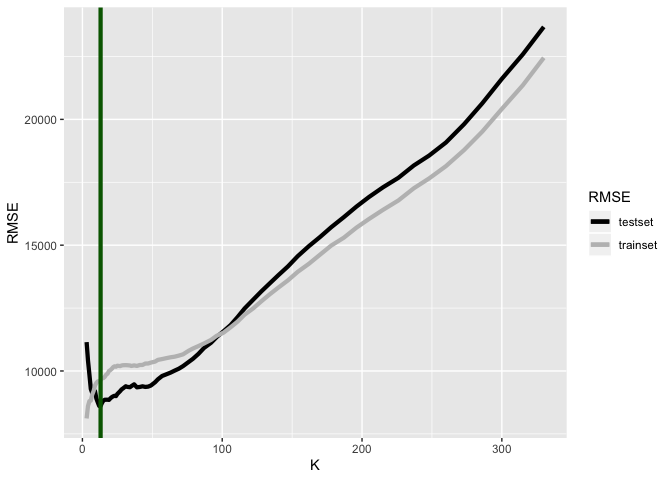
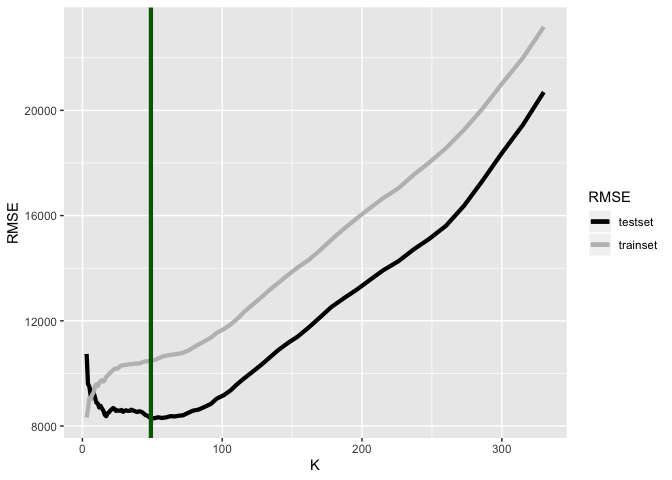
111111

diff --git a/exercise1-2.md b/exercise1-2.md
@@ -1,8 +1,6 @@
 trim level 350
 ==============
 
-    library(mosaic)
-
     ## Loading required package: dplyr
 
     ## 
@@ -74,9 +72,6 @@ trim level 350
     ## 
     ##     max, mean, min, prod, range, sample, sum
 
-    library(readr)
-    sclass <- read_csv("sclass.csv")
-
     ## Parsed with column specification:
     ## cols(
     ##   id = col_double(),
@@ -98,11 +93,6 @@ trim level 350
     ##   price = col_double()
     ## )
 
-    sclass350 = subset(sclass, trim== '350')
-    sclass65AMG = subset(sclass, trim== '65 AMG')
-
-    library(tidyverse)
-
     ## ── Attaching packages ─────────────────────────────────────────────────────────── tidyverse 1.2.1 ──
 
     ## ✔ tibble  2.1.3     ✔ purrr   0.3.2
@@ -120,9 +110,6 @@ trim level 350
     ## ✖ mosaic::stat()             masks ggplot2::stat()
     ## ✖ mosaic::tally()            masks dplyr::tally()
 
-    library(FNN)
-    library(foreach)
-
     ## 
     ## Attaching package: 'foreach'
 
@@ -130,176 +117,53 @@ trim level 350
     ## 
     ##     accumulate, when
 
-    ggplot(data = sclass350) + 
-      geom_point(mapping = aes(x = mileage, y = price), color='darkgrey')
-
 ![](exercise1-2_files/figure-markdown_strict/unnamed-chunk-1-1.png)
 
 trim level 350: out of sample RMSE versus K
 ===========================================
 
-    N1 = nrow(sclass350)
-    N_train1 = floor(0.8*N1)
-    N_test1 = N1 - N_train1
-
-    train_ind1 = sample.int(N1, N_train1, replace=FALSE)
-
-    D_train1 = sclass350[train_ind1,]
-    D_test1 = sclass350[-train_ind1,]
-
-    D_test1 = arrange(D_test1, mileage)
-
-    X_train1 = select(D_train1, mileage)
-    y_train1 = select(D_train1, price)
-    X_test1 = select(D_test1, mileage)
-    y_test1 = select(D_test1, price)
-
-    rmse = function(y, ypred) {
-      sqrt(mean(data.matrix((y-ypred)^2)))
-    }
-
-    k_grid1_1 = unique(round(exp(seq(log(330), log(3), length=100))))
-    rmse_grid_out1 = foreach(k = k_grid1_1, .combine='c') %do% {
-      knn_model1_1 = knn.reg(X_train1, X_test1, as.data.frame(y_train1), k = k)
-      rmse(y_test1, knn_model1_1$pred)
-    }
-
-    rmse_grid_out1 = data.frame(K = k_grid1_1, RMSE = rmse_grid_out1)
-
-    p_out = ggplot(data=rmse_grid_out1) + 
-      geom_path(aes(x=K, y=RMSE, color='testset'), size=1.5)
-    p_out
-
 ![](exercise1-2_files/figure-markdown_strict/unnamed-chunk-2-1.png)
 
-    ind_best = which.min(rmse_grid_out1$RMSE)
-    k_best = k_grid1_1[ind_best]
-    k_best
-
-    ## [1] 13
+    ## [1] 49
 
 trim level 350: RMSE versus K
 =============================
-
-    k_grid1_2 = unique(round(exp(seq(log(330), log(3), length=100))))
-    rmse_grid_in1 = foreach(k = k_grid1_2, .combine='c') %do% {
-      knn_model1_2 = knn.reg(X_train1, X_train1, as.data.frame(y_train1), k = k)
-      rmse(y_train1, knn_model1_2$pred)
-    }
-
-    rmse_grid_in1 = data.frame(K = k_grid1_2, RMSE = rmse_grid_in1)
-    ggplot(data=rmse_grid_in1) + 
-      geom_path(aes(x=K, y=RMSE, color='testset'), size=1.5) 
 
 ![](exercise1-2_files/figure-markdown_strict/unnamed-chunk-3-1.png)
 
 trim level 350: RMSE(2 types) versus K
 ======================================
 
-    p_out + geom_path(data=rmse_grid_in1, aes(x=K, y=RMSE, color='trainset'),size=1.5) + 
-      scale_colour_manual(name="RMSE",
-                          values=c(testset="black", trainset="grey")) + 
-      geom_vline(xintercept=k_best, color='darkgreen', size=1.5)
-
 ![](exercise1-2_files/figure-markdown_strict/unnamed-chunk-4-1.png)
-*o**p**t**i**m**a**l**K* = 8
- trim level 350: K-nearest neighbors at the optimal K
-========================================================
 
-    knn_model_optimal = knn.reg(X_train1, X_test1, as.data.frame(y_train1), k = 8)
-    d_test1 = data.frame(X_test1, ypred = knn_model_optimal$pred)
-    p_base1 = ggplot(data = sclass350) + 
-      geom_point(mapping = aes(x =mileage , y = price), color='darkgrey') 
-
-    p_base1 + geom_path(data=d_test1, mapping = aes(x = mileage, y = ypred), color='red', size=1.5)
+trim level 350: K-nearest neighbors at the optimal K
+====================================================
 
 ![](exercise1-2_files/figure-markdown_strict/unnamed-chunk-5-1.png)
 
 trim level 65AMG
 ================
 
-    ggplot(data = sclass65AMG) + 
-      geom_point(mapping = aes(x = mileage, y = price), color='darkgrey') 
-
 ![](exercise1-2_files/figure-markdown_strict/unnamed-chunk-6-1.png)
 
 trim level 65AMG: out of sample RMSE versus K
 =============================================
 
-    N2 = nrow(sclass65AMG)
-    N_train2 = floor(0.8*N2)
-    N_test2 = N2 - N_train2
-
-    train_ind2 = sample.int(N2, N_train2, replace=FALSE)
-
-    D_train2 = sclass65AMG[train_ind2,]
-    D_test2 = sclass65AMG[-train_ind2,]
-
-    D_test2 = arrange(D_test2, mileage)
-
-    X_train2 = select(D_train2, mileage)
-    y_train2 = select(D_train2, price)
-    X_test2 = select(D_test2, mileage)
-    y_test2 = select(D_test2, price)
-
-    rmse = function(y, ypred) {
-      sqrt(mean(data.matrix((y-ypred)^2)))
-    }
-
-    k_grid2_1 = unique(round(exp(seq(log(230), log(3), length=100))))
-    rmse_grid_out2 = foreach(k = k_grid2_1, .combine='c') %do% {
-      knn_model2_1 = knn.reg(X_train2, X_test2,as.data.frame( y_train2), k = k)
-      rmse(y_test2, knn_model2_1$pred)
-    }
-
-    rmse_grid_out2 = data.frame(K = k_grid2_1, RMSE = rmse_grid_out2)
-
-    p_out = ggplot(data=rmse_grid_out2) + 
-      geom_path(aes(x=K, y=RMSE, color='testset'), size=1.5)
-    p_out
-
 ![](exercise1-2_files/figure-markdown_strict/unnamed-chunk-7-1.png)
 
-    ind_best = which.min(rmse_grid_out2$RMSE)
-    k_best = k_grid2_1[ind_best]
-    k_best
-
-    ## [1] 3
+    ## [1] 5
 
 trim level 65AMG: RMSE versus K
 ===============================
-
-    k_grid2_2 = unique(round(exp(seq(log(230), log(3), length=100))))
-    rmse_grid_in2 = foreach(k = k_grid2_2, .combine='c') %do% {
-      knn_model2_2 = knn.reg(X_train2, X_train2, as.data.frame(y_train2), k = k)
-      rmse(y_train2, knn_model2_2$pred)
-    }
-
-    rmse_grid_in2 = data.frame(K = k_grid2_2, RMSE = rmse_grid_in2)
-    ggplot(data=rmse_grid_in2) + 
-      geom_path(aes(x=K, y=RMSE, color='testset'), size=1.5) 
 
 ![](exercise1-2_files/figure-markdown_strict/unnamed-chunk-8-1.png)
 
 trim level 65AMG: RMSE(2 types) versus K
 ========================================
 
-    p_out + geom_path(data=rmse_grid_in2, aes(x=K, y=RMSE, color='trainset'),size=1.5) + 
-      scale_colour_manual(name="RMSE",
-                          values=c(testset="black", trainset="grey")) + 
-      geom_vline(xintercept=k_best, color='darkgreen', size=1.5)
-
 ![](exercise1-2_files/figure-markdown_strict/unnamed-chunk-9-1.png)
-*o**p**t**i**m**a**l**K* = 33
 
 trim level 65AMG: K-nearest neighbors at the optimal K
 ======================================================
-
-    knn_model_optimal2 = knn.reg(X_train2, X_test2, as.data.frame(y_train2), k = 33)
-    d_test2 = data.frame(X_test2, ypred = knn_model_optimal2$pred)
-    p_base2 = ggplot(data = sclass65AMG) + 
-      geom_point(mapping = aes(x =mileage , y = price), color='darkgrey') 
-
-    p_base2 + geom_path(data=d_test2, mapping = aes(x = mileage, y = ypred), color='red', size=1.5)
 
 ![](exercise1-2_files/figure-markdown_strict/unnamed-chunk-10-1.png)
